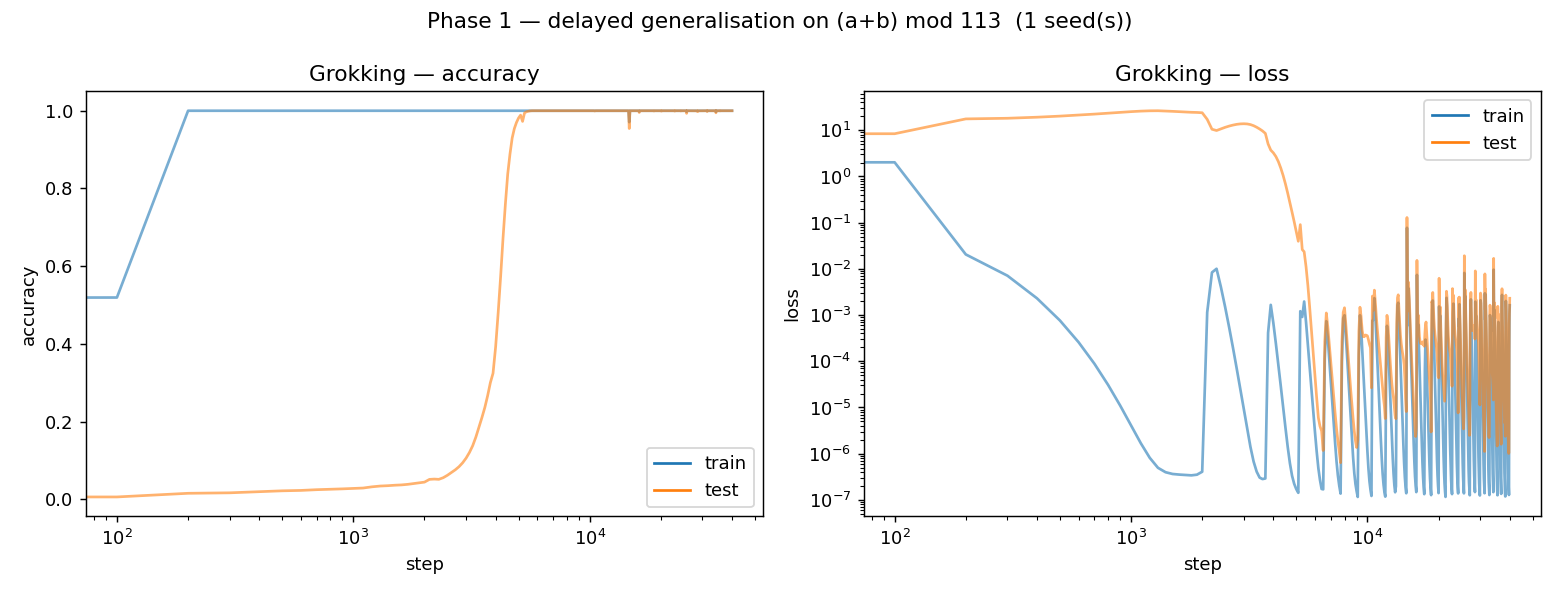
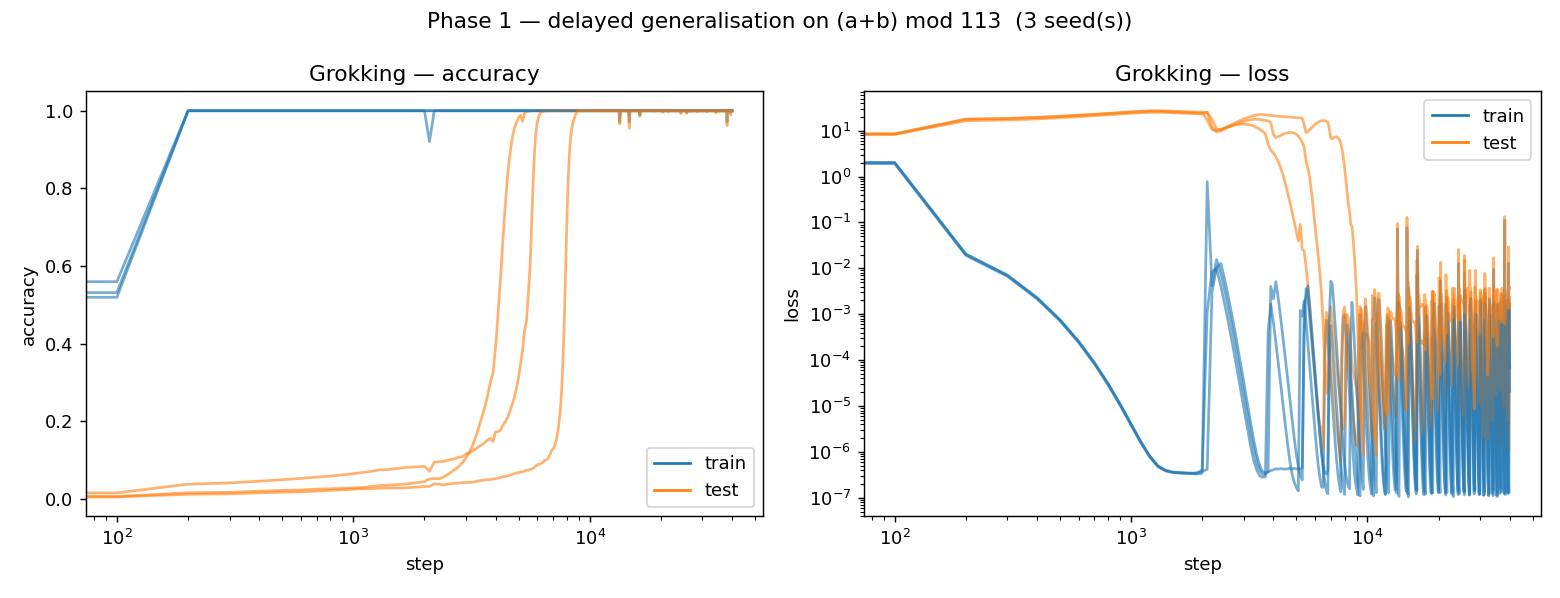
Phase 1: multi-seed error bars — all 3 seeds grok (mean delay 6200 steps)
Seeds 0/1/2 all memorise at step 200 and reach ~100% test accuracy; the grokking transition itself lands at 4800/6000/8400 steps, so the timing is seed-dependent while the phenomenon is robust. Figure and results table regenerated across all three seeds.

diff --git a/results/phase1_results.md b/results/phase1_results.md
@@ -3,5 +3,7 @@
 | seed | memorised (train>0.99) | grokked (test>0.95) | delay (steps) | final test acc |
 |---|---|---|---|---|
 | 0 | 200 | 4800 | 4600 | 1.0000 |
+| 1 | 200 | 6000 | 5800 | 1.0000 |
+| 2 | 200 | 8400 | 8200 | 0.9989 |
 
-**Mean grokking delay: 4600 steps** (memorisation to generalisation) across 1 seed(s).
+**Mean grokking delay: 6200 steps** (memorisation to generalisation) across 3 seed(s).
